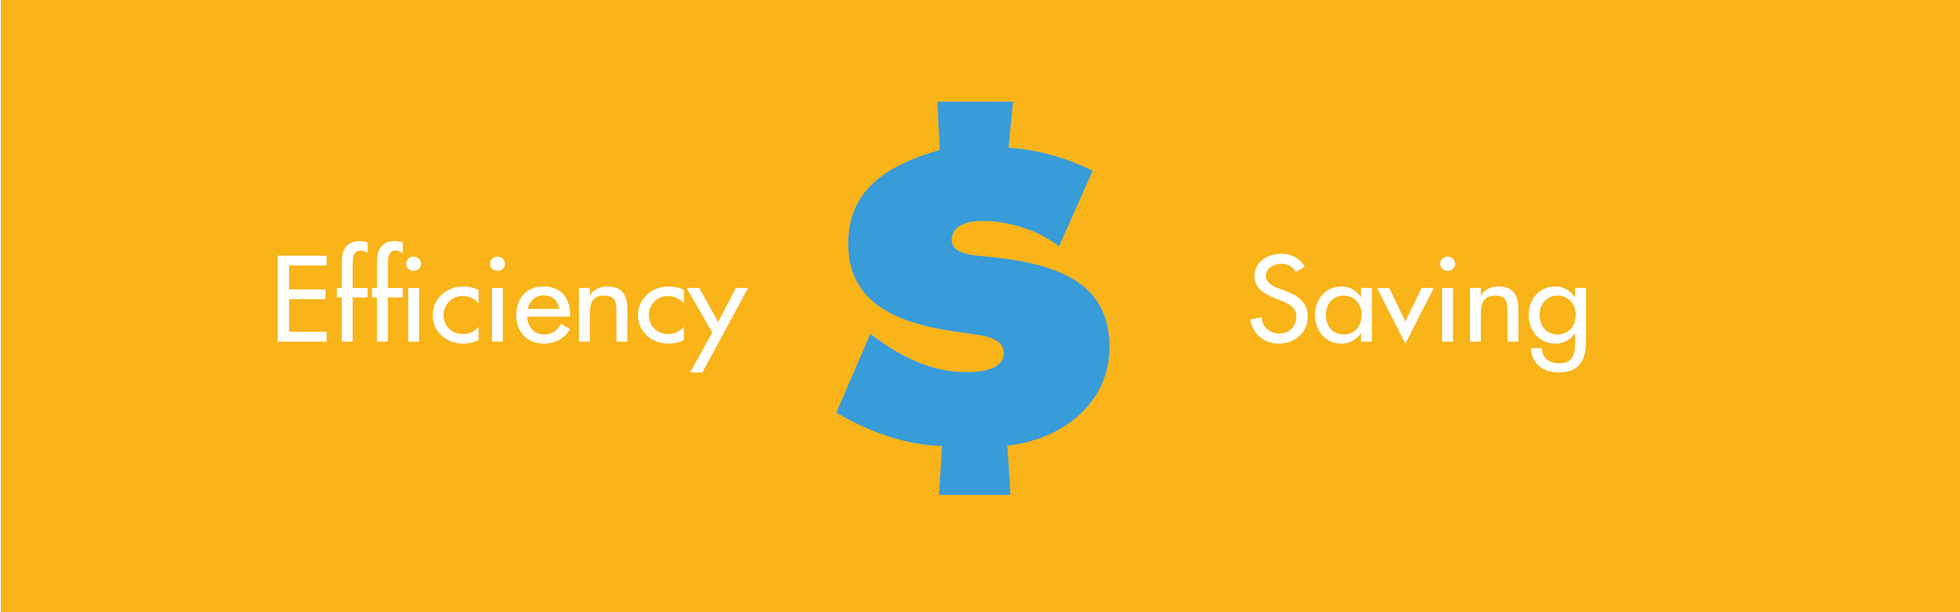
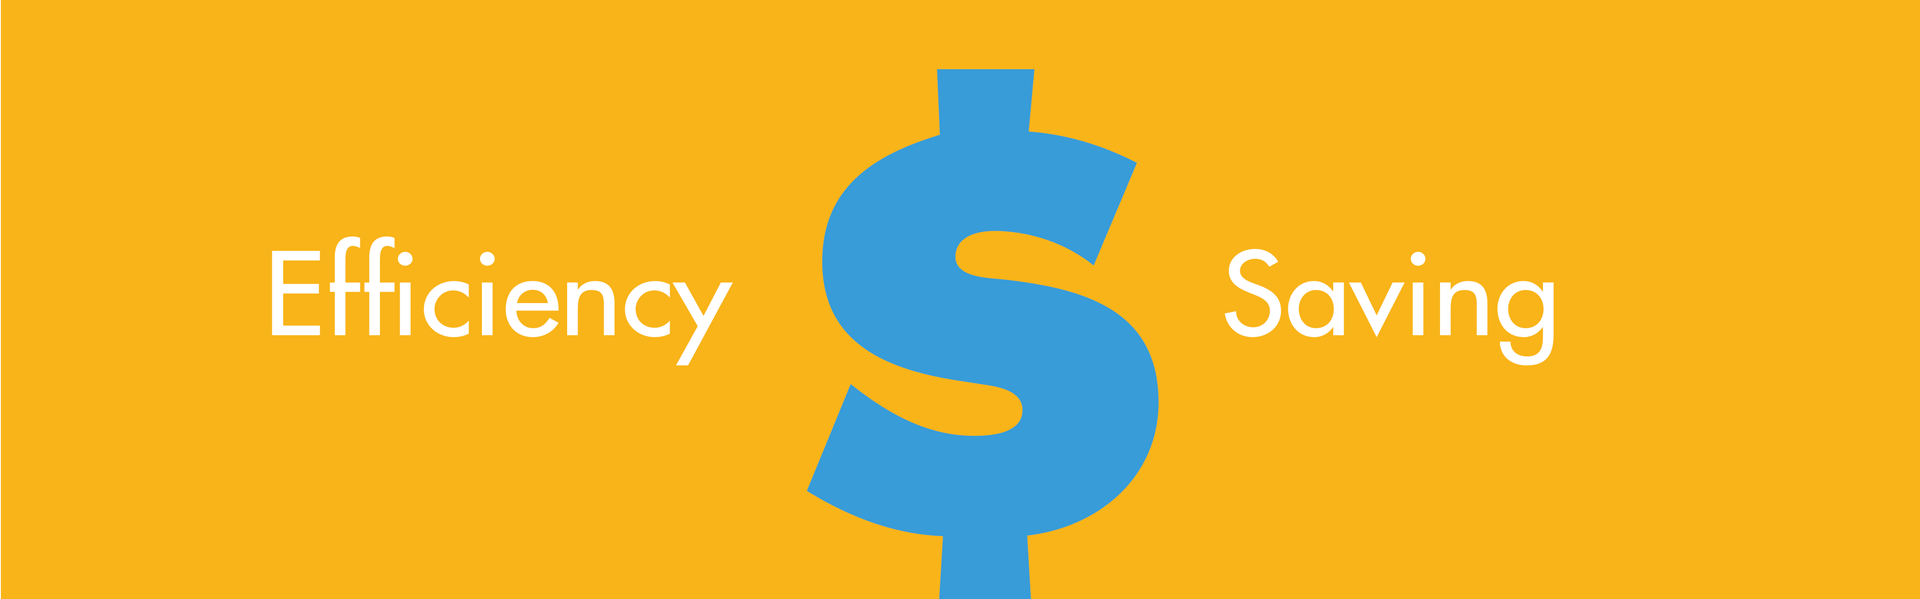
UI Changes

diff --git a/channel-management.html b/channel-management.html
@@ -177,7 +177,7 @@
 
         <!-- First section -->
         <div class="cover">
-          <div class="outer lazy img-responsive" data-original="images/channel-manager-bg-1.png">
+          <div class="outer lazy img-responsive" data-original="images/channel-manager-bg.png">
             <div class="inner constant-padding">
                <h5>Profit maximization-Save time and labor-No over-bookings</h5>
               <h1>Channel Manager Integration</h1>

diff --git a/index.html b/index.html
@@ -177,7 +177,7 @@
 
         <!-- First section -->
         <div class="cover">
-          <div class="outer lazy img-responsive" data-original="images/baner-bg-1.png">
+          <div class="outer lazy img-responsive" data-original="images/baner-bg.png">
             <div class="inner constant-padding">
                <h5>Powerful - Cloud Based - Analytical Dashboard - Easy to Use</h5>
               <h1>Property Management System</h1>

diff --git a/price.html b/price.html
@@ -178,7 +178,7 @@
 
         <!-- First section -->
         <div class="cover">
-          <div class="outer lazy" data-original="images/price-bg-1.png">
+          <div class="outer lazy" data-original="images/price-bg.png">
             <div class="inner constant-padding">
               
               <div class="download-app-btns">
